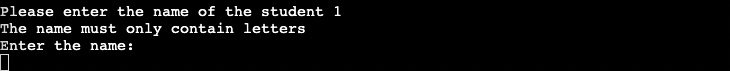
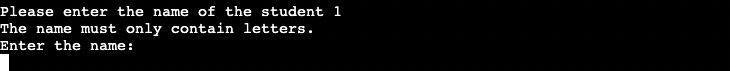
Add option for name input to contain space, Allow user to input first name and last name

diff --git a/run.py b/run.py
@@ -161,7 +161,7 @@ def get_students_name(number_name):
     """
     while True:
         print(f"Please enter the name of the student {number_name}")
-        print("The name must only contain letters.")
+        print("The name must contain letters. Also space is allowed.")
         student_name = input("Enter the name:\n")
         if validate_name(student_name):
             print("The name is valid!")
@@ -172,17 +172,19 @@ def get_students_name(number_name):
 def validate_name(name_value):
     """
     Function that validates the name of the students is only alphabetic.
+    Also allow to have 'space' in case the input is first name and last
+    name.
 
     Parameters:
     name_value: takes as input student_name list with one string containing
-    student name for n.
+    the student name.
 
     Returns:
     boolean: True if student_name only contains alphabetic characters. False
     if not.
     """
     try:
-        if name_value.isalpha():
+        if all(x.isalpha or x.isspace for x in name_value):
             return True
 
         else:
